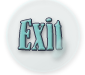
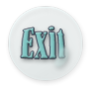
Update menu system to use sprite-based items
- Modified `GameConstants.h` to adjust menu layout and add button scale.
- Updated `SpriteManager.h` with new texture IDs for menu items.
- Introduced `TextureID` enum in `MenuState.h` and updated `MenuOption`.
- Added new menu sprites in `SpriteManager.cpp`.
- Refactored `MenuState.cpp` to implement sprite-based menu items, including texture handling and rendering.
- Updated mouse interaction handling to work with sprites.
- Adjusted transition effects and rendering logic for sprite integration.

Changed region(s): [[0.1882, 0.2133, 0.7529, 0.6933]]

diff --git a/src/States/MenuState.cpp b/src/States/MenuState.cpp
@@ -4,6 +4,7 @@
 #include <algorithm>
 #include <numeric>
 #include <random>
+#include <tuple>
 
 namespace FishGame
 {
@@ -11,8 +12,8 @@ namespace FishGame
         : State(game)
         , m_titleSprite()
         , m_menuItems()
-        , m_selectedOption(MenuOption::Play)
-        , m_previousOption(MenuOption::Play)
+        , m_selectedOption(MenuOption::NewGame)
+        , m_previousOption(MenuOption::NewGame)
         , m_animationTime(0.0f)
         , m_transitionAlpha(255.0f)
         , m_isTransitioning(false)
@@ -27,8 +28,6 @@ namespace FishGame
     void MenuState::initializeMenu()
     {
         auto& window = getGame().getWindow();
-        auto& font = getGame().getFonts().get(Fonts::Main);
-
         // Setup title sprite
         m_titleSprite.setTexture(
             getGame().getSpriteManager().getTexture(TextureID::GameTitle));
@@ -41,24 +40,19 @@ namespace FishGame
         m_titleSprite.setPosition(window.getSize().x / 2.0f, Constants::TITLE_Y_POSITION);
 
         // Initialize menu items
-        const std::array<std::pair<std::string, MenuAction>, static_cast<size_t>(MenuOption::Count)> menuData = { {
-            {"Play Game", [this]() {
+        const std::array<std::tuple<TextureID, TextureID, MenuAction>, static_cast<size_t>(MenuOption::Count)> menuData = { {
+            {TextureID::NewGame, TextureID::NewGameHover, [this]() {
                 deferAction([this]() {
                     requestStackPop();
                     requestStackPush(StateID::Play);
                 });
             }},
-            {"Settings", [this]() {
+            {TextureID::GameOptions, TextureID::GameOptionsHover, [this]() {
                 deferAction([this]() {
                     requestStackPush(StateID::Settings);
                 });
             }},
-            {"Credits", [this]() {
-                deferAction([this]() {
-                    requestStackPush(StateID::Credits);
-                });
-            }},
-            {"Exit", [this]() {
+            {TextureID::Exit, TextureID::ExitHover, [this]() {
                 deferAction([this]() {
                     requestStackClear();
                 });
@@ -69,20 +63,17 @@ namespace FishGame
         float yPosition = Constants::MENU_START_Y;
 
         std::transform(menuData.begin(), menuData.end(), m_menuItems.begin(),
-            [&font, &window, &yPosition](const auto& data) -> MenuItemType {
+            [this, &window, &yPosition](const auto& data) -> MenuItemType {
                 MenuItemType item;
-                item.text = data.first;
-                item.action = data.second;
+                item.normalTexture = std::get<0>(data);
+                item.hoverTexture = std::get<1>(data);
+                item.action = std::get<2>(data);
 
-                item.textObject.setFont(font);
-                item.textObject.setString(item.text);
-                item.textObject.setCharacterSize(Constants::MENU_FONT_SIZE);
-                item.textObject.setFillColor(Constants::MENU_NORMAL_COLOR);
-
-                // Center each option
-                sf::FloatRect bounds = item.textObject.getLocalBounds();
-                item.textObject.setOrigin(bounds.width / 2.0f, bounds.height / 2.0f);
-                item.textObject.setPosition(window.getSize().x / 2.0f, yPosition);
+                item.sprite.setTexture(getGame().getSpriteManager().getTexture(item.normalTexture));
+                sf::FloatRect bounds = item.sprite.getLocalBounds();
+                item.sprite.setOrigin(bounds.width / 2.0f, bounds.height / 2.0f);
+                item.sprite.setPosition(window.getSize().x / 2.0f, yPosition);
+                item.sprite.setScale(Constants::MENU_BUTTON_SCALE, Constants::MENU_BUTTON_SCALE);
 
                 yPosition += Constants::MENU_ITEM_SPACING;
 
@@ -194,7 +185,7 @@ namespace FishGame
 
         auto hoveredOption = StateUtils::findItemAt(
             m_menuItems, mousePos,
-            [](const auto& item) { return item.textObject.getGlobalBounds(); });
+            [](const auto& item) { return item.sprite.getGlobalBounds(); });
         if (hoveredOption.has_value())
         {
             m_selectedOption = static_cast<MenuOption>(hoveredOption.value());
@@ -209,7 +200,7 @@ namespace FishGame
 
         auto clickedOption = StateUtils::findItemAt(
             m_menuItems, mousePos,
-            [](const auto& item) { return item.textObject.getGlobalBounds(); });
+            [](const auto& item) { return item.sprite.getGlobalBounds(); });
         if (clickedOption.has_value())
         {
             m_selectedOption = static_cast<MenuOption>(clickedOption.value());
@@ -237,13 +228,7 @@ namespace FishGame
         {
             m_transitionAlpha = std::max(0.0f, m_transitionAlpha - m_fadeSpeed * deltaTime.asSeconds());
 
-            // Apply fade to text and sprite elements
-            auto applyAlphaText = [this](sf::Text& text) {
-                sf::Color color = text.getFillColor();
-                color.a = static_cast<sf::Uint8>(m_transitionAlpha);
-                text.setFillColor(color);
-                };
-
+            // Apply fade to sprite elements
             auto applyAlphaSprite = [this](sf::Sprite& sprite) {
                 sf::Color color = sprite.getColor();
                 color.a = static_cast<sf::Uint8>(m_transitionAlpha);
@@ -252,13 +237,14 @@ namespace FishGame
 
             applyAlphaSprite(m_titleSprite);
             std::for_each(m_menuItems.begin(), m_menuItems.end(),
-                [&applyAlphaText](auto& item) { applyAlphaText(item.textObject); });
+                [&applyAlphaSprite](auto& item) { applyAlphaSprite(item.sprite); });
         }
 
         // Animate selected option with pulsing effect
         size_t selectedIndex = static_cast<size_t>(m_selectedOption);
         float scale = 1.0f + m_pulseAmplitude * std::sin(m_animationTime * m_pulseSpeed * 2.0f * Constants::PI);
-        StateUtils::applyPulseEffect(m_menuItems[selectedIndex].textObject, scale);
+        StateUtils::applyPulseEffect(m_menuItems[selectedIndex].sprite,
+            scale * Constants::MENU_BUTTON_SCALE);
     }
 
     void MenuState::render()
@@ -274,7 +260,7 @@ namespace FishGame
         // Render all menu items
         std::for_each(m_menuItems.begin(), m_menuItems.end(),
             [&window](const auto& item) {
-                window.draw(item.textObject);
+                window.draw(item.sprite);
             });
     }
 
@@ -299,14 +285,15 @@ namespace FishGame
     {
         // Reset all options to default appearance
         std::for_each(m_menuItems.begin(), m_menuItems.end(),
-            [](auto& item) {
-                item.textObject.setFillColor(Constants::MENU_NORMAL_COLOR);
-                item.textObject.setScale(1.0f, 1.0f);
+            [this](auto& item) {
+                item.sprite.setTexture(getGame().getSpriteManager().getTexture(item.normalTexture));
+                item.sprite.setScale(Constants::MENU_BUTTON_SCALE, Constants::MENU_BUTTON_SCALE);
             });
 
         // Highlight selected option
         size_t selectedIndex = static_cast<size_t>(m_selectedOption);
-        m_menuItems[selectedIndex].textObject.setFillColor(Constants::MENU_SELECTED_COLOR);
+        m_menuItems[selectedIndex].sprite.setTexture(
+            getGame().getSpriteManager().getTexture(m_menuItems[selectedIndex].hoverTexture));
 
         // Track previous selection for smooth transitions
         m_previousOption = m_selectedOption;

diff --git a/include/States/MenuState.h b/include/States/MenuState.h
@@ -16,6 +16,8 @@ namespace FishGame
     class MenuState;
     template<> struct is_state<MenuState> : std::true_type {};
 
+    enum class TextureID;
+
     class MenuState : public State
     {
     public:
@@ -30,9 +32,8 @@ namespace FishGame
     private:
         enum class MenuOption : size_t
         {
-            Play = 0,
-            Settings,
-            Credits,
+            NewGame = 0,
+            GameOptions,
             Exit,
             Count
         };
@@ -41,9 +42,10 @@ namespace FishGame
         template<typename Action>
         struct MenuItem
         {
-            std::string text;
             Action action;
-            sf::Text textObject;
+            sf::Sprite sprite;
+            TextureID normalTexture;
+            TextureID hoverTexture;
         };
 
         using MenuAction = std::function<void()>;

diff --git a/src/Managers/SpriteManager.cpp b/src/Managers/SpriteManager.cpp
@@ -47,7 +47,15 @@ namespace FishGame
         {TextureID::Background, "Background1.png"},
         {TextureID::CoralReef, "Grass.png"},
         {TextureID::KelpForest, "kelp_forest.png"},
-        {TextureID::GameTitle, "GameTitle.png"}
+        {TextureID::GameTitle, "GameTitle.png"},
+
+        // Menu sprites
+        {TextureID::NewGame, "NewGame.png"},
+        {TextureID::NewGameHover, "NewGameHover.png"},
+        {TextureID::GameOptions, "GameOptions.png"},
+        {TextureID::GameOptionsHover, "GameOptionsHover.png"},
+        {TextureID::Exit, "Exit.png"},
+        {TextureID::ExitHover, "ExitHover.png"}
     };
 
     SpriteManager::SpriteManager(ResourceHolder<sf::Texture, TextureID>& textureHolder)

diff --git a/include/Core/GameConstants.h b/include/Core/GameConstants.h
@@ -91,8 +91,10 @@ namespace FishGame
         constexpr unsigned int TITLE_FONT_SIZE = 72;
         constexpr float TITLE_OUTLINE_THICKNESS = 3.0f;
 
-        constexpr float MENU_START_Y = 400.0f;
-        constexpr float MENU_ITEM_SPACING = 80.0f;
+        constexpr float MENU_START_Y = 500.0f;
+        constexpr float MENU_ITEM_SPACING = 180.0f;
+        // Scale factor applied to menu button sprites
+        constexpr float MENU_BUTTON_SCALE = 1.75f;
         constexpr unsigned int MENU_FONT_SIZE = 48;
 
         // ==================== Animation Constants ====================

diff --git a/include/Managers/SpriteManager.h b/include/Managers/SpriteManager.h
@@ -59,6 +59,12 @@ namespace FishGame
         CoralReef,
         KelpForest,
         GameTitle
+        , NewGame
+        , NewGameHover
+        , GameOptions
+        , GameOptionsHover
+        , Exit
+        , ExitHover
     };
 
     // Sprite scale configurations
